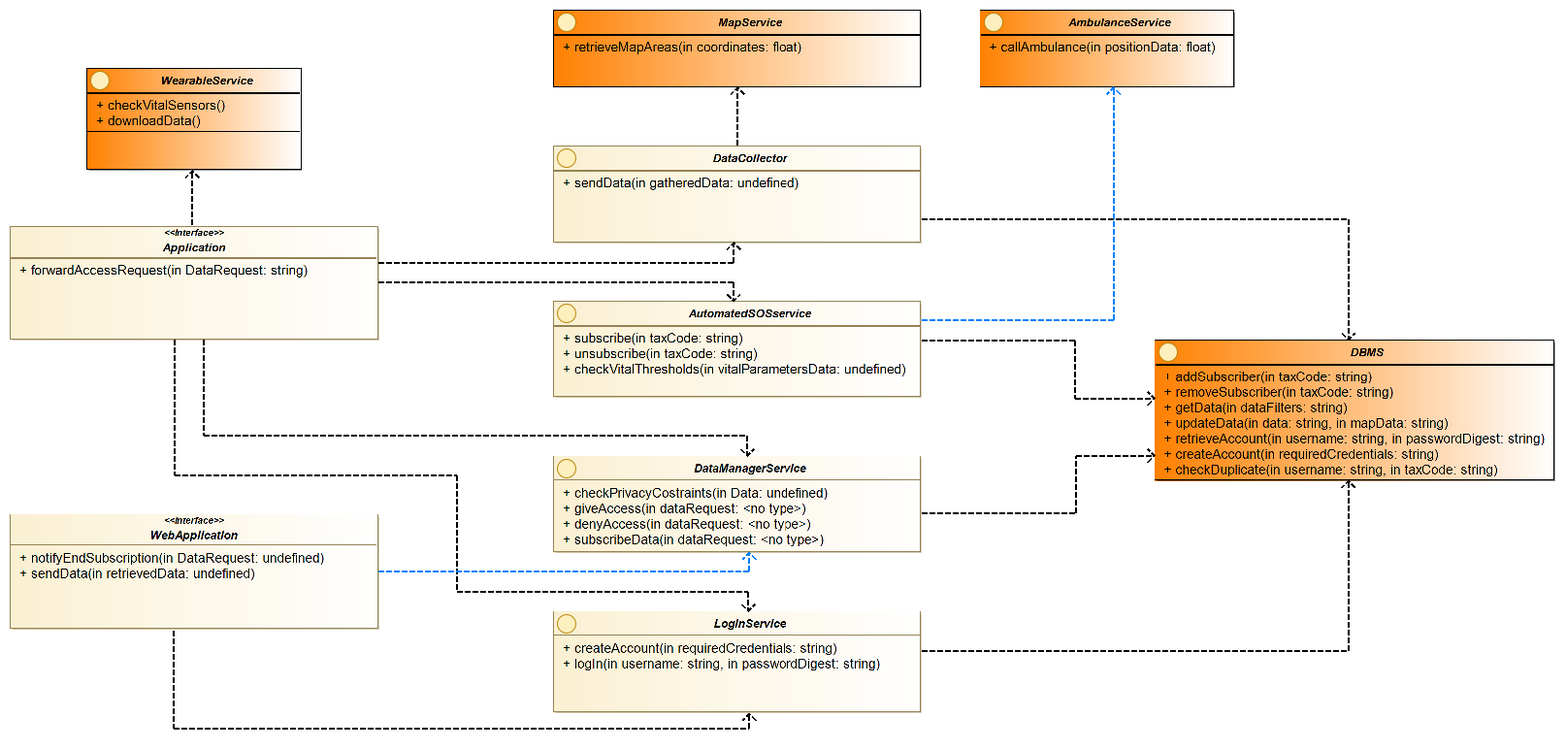
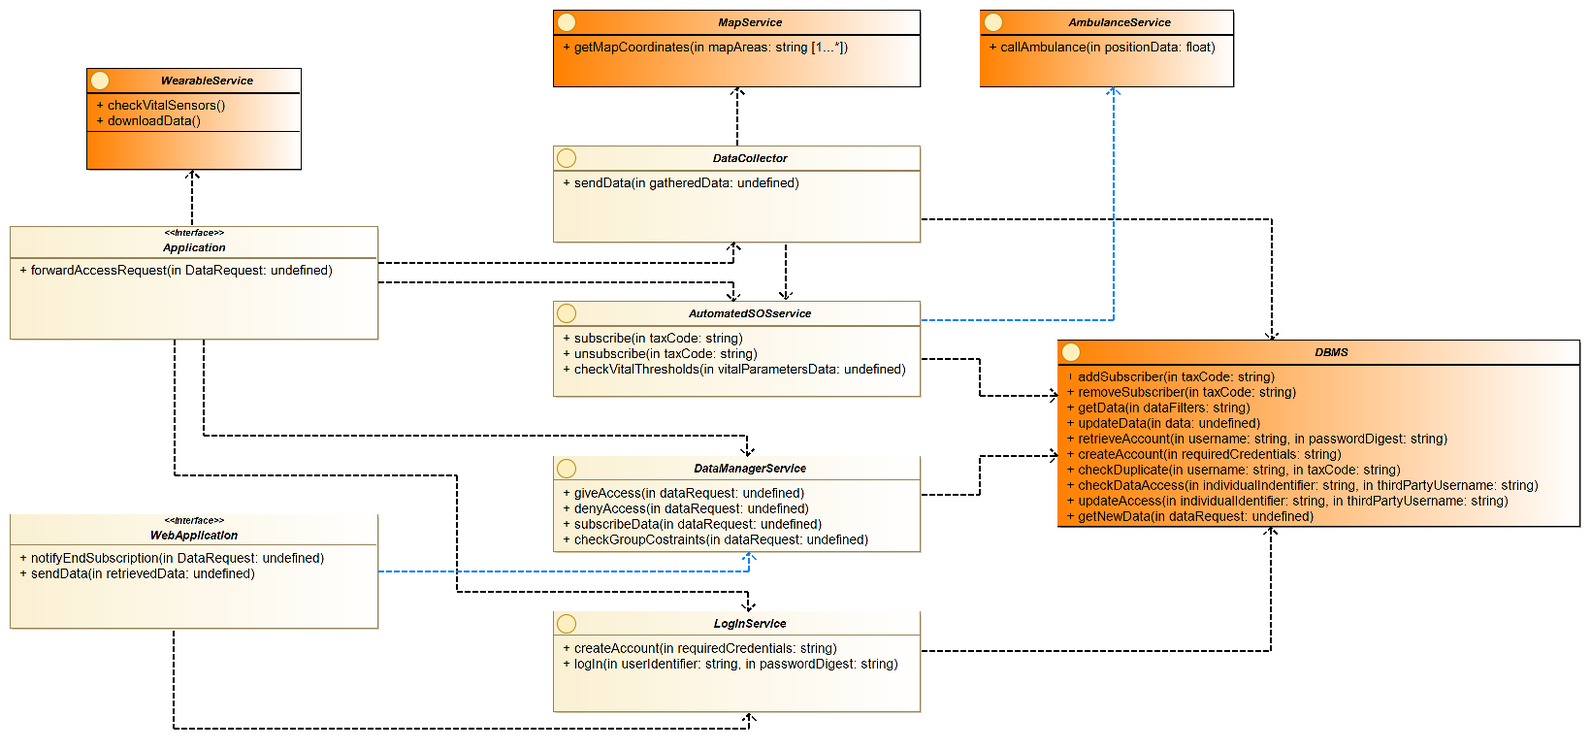
section 4 + updates on section 2 and 5
finished the description of the component interfaces and sequence diagrams. Improved the integration and testing plan. Changes in the sequence diagrams of the data subscription that is now being handled in different ways depending on the type of the request, and the data upload/individual data request: now the DB stores the coordinates instead of the map names

diff --git a/DD/ArchDesign.tex b/DD/ArchDesign.tex
@@ -23,7 +23,7 @@ The GUIs are deployed in this layer.
 \item \textbf{Data layer}: this layer is responsible for managing all the data of the system. 
 In particular, it stores the data on persistent devices and makes them available when requested by the TrackMe servers.
 \end{itemize}
-The structure displayed in Figure \ref{f:3tier} is not to be understood as a rigid constraint on the implementation choices, but it represents where most of the three three logic layers are deployed.
+The structure displayed in Figure \ref{f:3tier} is not to be understood as a rigid costraint on the implementation choices, but it represents where most of the three three logic layers are deployed.
 For examples, it is possible that part of the data is (temporarily) stored on the clients in order to reduce latency or that some presentation logic is deployed on the TrackMe Server in order to achieve a more dynamic GUI.
 
 
@@ -86,7 +86,7 @@ This is the only node that interact with the Database node.
 
 \section{Component Interfaces}
 The following diagram shows what features each component must provide to guarantee the correct functioning of Data4Help features, highliting the dependencies among the various components.
-To make the diagram more clear, the crossing arrows have different colours and the interfaces used from external components are highlated in orange.
+To make the diagram more clear, the crossing arrows have different colours and the external components are highlited in orange.
 Following the diagram, each operation is defined through a brief description.
 
 \begin{figure}[H]
@@ -97,61 +97,80 @@ Following the diagram, each operation is defined through a brief description.
 
 
 \begin{itemize}
-\item Application
+\item Android App
 \begin{itemize}
 \item \textbf{forwardAccessRequest}: forwards the third party data access request to the individual's application. The data request is taken as an input parameter because it is needed to retrieve all the information about the request: who is the requester, in which data he is interested in.
 \end{itemize}
 \item Wearable Service
 \begin{itemize}
-\item \textbf{downloadData}: downloads to the application the data stored in the wearable.
+\item \textbf{downloadData}: downloads the data stored in the paired wearable.
 \item \textbf{checkVitalSensors}: checks if the wearable is capable of measuring at least one vital parameter, either the blood pressure or the heart rate.
 \end{itemize}
-\item WebApplication
+\item Web App
 \begin{itemize}
-\item \textbf{notifyEndSubscription}: notifies the third party about an ended data subscription in an asynchronous way. The data request is taken as an input in order to 
-\item \textbf{sendData}: sends the given data to the webApplication.
+\item \textbf{notifyEndSubscription}: sends a notification to the Web App about the ended subscription of the data request passed as an input paramter.
+\item \textbf{sendData}: sends the given data to the Web App.
 \end{itemize}
-\item DataCollector
+\item Data Collector
 \begin{itemize}
-\item \textbf{sendData}: sends the gathered data from the app to the data collector.
+\item \textbf{sendData}: sends the gathered data from the Android App to the Data Collector.
 \end{itemize}
-\item MapService
+\item Map Service
 \begin{itemize}
-\item \textbf{retrieveMapAreas}: search the city name bound to the coordinates received.
+\item \textbf{getMapCoordinates}: searches the coordinates of the border associated to the given map zone. These coordinates will be then used by the DBMS in order to apply filters to the stored data based on geographical zones.
 \end{itemize}
-\item DataManagerService
+\item Data Manager
 \begin{itemize}
-\item \textbf{checkPrivacyCostraints}: scan the input data and checks if the number of i
+\item \textbf{checkGroupCostraints}: operation used to check if the group data found by the database applying the data request filters specified by the third party is above 1000.
 \item \textbf{giveAccess}: allows the individual data gathering from the given third party request to be processed.
 \item \textbf{denyAccess}: denies the individual data gathering from the given third party request to be processed.
-\item \textbf{subscribeData}: activates the data subscription of the given data request.
+\item \textbf{subscribeData}: activates the data subscription for the given data request.
 \end{itemize}
-\item LoginService
+\item Login Manager
 \begin{itemize}
 \item \textbf{createAccount}: uses the given credentials to create a Data4Help account.
-\item \textbf{logIn}: allows users to access to Data4Help through their username (or tax code) and password.
+\item \textbf{logIn}: allows users to access to Data4Help through their username (or tax code in case it is an individual) and password digest.
 \end{itemize}
-\item AutomatedSOS
+\item Automated SOS
 \begin{itemize}
 \item \textbf{subscribe}: activates the AutomatedSOS service for the individual associated to the given tax code.
 \item \textbf{unsubscribe}: stops the AutomatedSOS for the individual associated to the given tax code.
 \item \textbf{checkVitalThresholds}: checks if the data of the vital paramaters have crossed the critical thresholds
 \end{itemize}
-\item AmbulanceService
+\item Ambulance Service
 \begin{itemize}
 \item \textbf{callAmbulance}: calls an ambulance, using the input coordinates to specify the destination.
 \end{itemize}
 \item DBMS
 \begin{itemize}
-\item \textbf{addSubscriber}: adds in the database the individual associated to the tax code as an AutomatedSOS subscriber
-\item \textbf{removeSubscriber}: remove the AutomatedSOS subscriber associated to the tax code from the database.
-\item \textbf{getData}: use the given data filters to build the respective query for the database, in order to access the desired data.
-\item \textbf{uploadData}: adds the given data and the associated geographical position to the database.
+\item \textbf{addSubscriber}: promotes the individual account associated to the given tax code as an AutomatedSOS account.
+\item \textbf{removeSubscriber}: removes the AutomatedSOS subscription from the account bound to the tax code.
+\item \textbf{getData}: uses the given data filters to build the respective query for the database, in order to access the desired data.
+\item \textbf{uploadData}: adds the given data to the database.
 \item \textbf{retrieveAccount}: checks if the given credentials are in the database.
 \item \textbf{createAccount}: adds a new user account to the database using the given credentials.
 \item \textbf{checkDuplicate}: checks if the given username or tax code are already inserted in the database.
+\item \textbf{updateAccess}: updates the list of all third parties that can have access to the individual data.
+\item \textbf{checkAccess}: checks if the given third party, identified by his username, can have access to the given individual data. The individual can be identified either by the tax code or by the username.
+\item \textbf{getNewData}: collects all the new data related to a data request.
 \end{itemize}
 \end{itemize}
+Note that the operations associated to the external services are fictitious, the real names or input parameters may vary from the one listed above, but the expected functionalities must be the same, even if they are mapped on more than one real function.\\
+
+In this document the model of the application will not be provided: this makes the development phase more flexible.\\
+However, to better coordinate the interactions between the component, a general description of the input provided in each operation listed before is here presented:
+\begin{itemize}
+\item requiredCredentials: this will be a data structure containing multiple strings such as the taxCode, the username or the passwordDigest.
+\item userIdentifier: this is a generic string that could be either the individual username or tax code, or the third party username.
+\item individualIdentifier: this generic string that could be either the individual username or tax code.
+\item dataRequest: this will be the data structure that represents the data request from the third parties. It will contain all the filters applied for the data request, an Id a typology identifier for the request itself and the sender username.
+\item mapAreas: list of strings representing the geographical filter applied by the third party.
+\item dataFilters: this data structure contains all the filters that can be extrapolated from the dataRequest.
+\item retrievedData: data structure containing all the data retrieved from the DB.
+\item gatheredData: data structure containing all the data downloaded from the individual's smartwatch.
+\item vitalParameterData: data structure containing all the individual data that is needed for the AutomatedSOS service.
+\end{itemize}
+
 
 
 
@@ -164,9 +183,9 @@ The following diagrams shows the interactions between the interface components d
 \end{figure}
 This diagram shows the procedure activated when the user registers to Data4Help.\\
 The precondition of the registration is that the user has filled all the mandatory fields of the Sign Up form.\\
-When the user presses the register button, the content of the compiled fields is sent to the LoginService component of the server to create an account.\\
+When the user presses the register button, the content of the compiled fields is sent to the Login Manager component to create an account.\\
 Before creating the account, the LoginService checks through the DBMS services if the provided username and tax code are already present in the database.\\
-If the provided username or tax code is already taken, the procedure terminates sending an error notification to the client, otherwise the LoginService adds the new account credentials in the database through the DBMS.\\
+If the provided username or tax code is already taken, the procedure terminates sending an error notification to the client, otherwise the Login Manager adds the new account credentials in the database through the DBMS.\\
 After the account is created a notification is sent to the user and the procedure ends.
 
 
@@ -176,8 +195,8 @@ After the account is created a notification is sent to the user and the procedur
 \includegraphics[width=\linewidth]{resources/uml/sequence/LogIn.png}
 \end{figure}
 In this diagram it's presented the Log In procedure.\\
-Once the user has pressed the Log In button, the username and the password digest are sent to the LoginService component.\\
-This component chcecks through the DBMS if there exist an account matching the credentials provided: in the positive case the user is logged in and directed to the respective data visualization screen, otherwise an error notification is sent to the user.\\
+Once the user has pressed the Log In button, the username and the password digest are sent to the Login Manager.\\
+This component checks through the DBMS if there exists an account matching the credentials provided: in the positive case the user is logged in and directed to the respective data visualization screen, otherwise an error notification is sent to the user.\\
 Notice that, in order to mantain user privacy the password is crypted immediately with an hash function, and only its digest is used during this procedure.
 
 
@@ -190,10 +209,9 @@ This diagram shows the data upload procedure, including the wearable pairing pha
 Obviously the individual must be logged in, in order to start the data upload.\\
 When the individual goes to the data visualization screen the wearable pairing, using the external wearable service, starts.\\
 If the wearable is not found the procedure terminates sending an error notification to the application.
-In the other case, once the wearable is paired, the application downloads the data gathered from the smartphone through the wearable external services.\\
-The downloaded data is then sent to the DataCollector component that is in charge of transforming the position coordinates bound to the data in city or district names, using the external map service interface.\\
-This part of the procedure is needed in order to directly store in the database the city names instead of the coordinates, in order to obtain a faster response when handling data request with geographical area filters, that are indeed city names or countries.
-Once the geographical area is retrieved, the data collectors add it to the database through the DBMS, and updates the user screen visualized data.
+In the other case, once the wearable is paired, the application downloads the data gathered from the smartphone through the wearable services.\\
+The downloaded data is then sent to the server through the Data Collector, that uploads the data into the database through the DBMS.\\
+Once the data is uploaded, a notification is sent to the Android App which now displays the new data.
 
 \subsection{AutomatedSOS subscription}
 \begin{figure}[H]
@@ -201,13 +219,13 @@ Once the geographical area is retrieved, the data collectors add it to the datab
 \includegraphics[width=\linewidth]{resources/uml/sequence/AutomatedSOS.png}
 \end{figure}
 This diagram illustrates the AutomatedSOS subscription procedure that is activated once the individual has paired the wearable and the subscribe button is tapped.\\
-After the subscribe button is tapped, the application check through the wearable external interface if the wearable is capable of measuring either the blood pressure or the heart rate.\\
+After the subscribe button is tapped, the application checks through the wearable external interface if the wearable is capable of measuring either the blood pressure or the heart rate.\\
 In the negative case the procedure ends sending a notification to the individual.
-In the other case, the application starts the subscription by using the AutomatedSOS component, that updates the database, setting the individual as an AutomatedSOS subscriber. Once the individual is set as a subscriber a notification is sent to the application, notifying the start of the service.\\
+In the other case, the application starts the subscription by using the Automated SOS component, that updates the database, setting the individual as an AutomatedSOS subscriber. Once the individual is set as a subscriber a notification is sent to the application, notifying the start of the service.\\
 After the service is started, the application regurarly downloads the vital parameter data using the wearable external service, enriches it with the individual position data and sends it to the data collector.\\
-The data collector checks if the values of vital data collected have crossed the critical threshold using the AutomatedSOS component: if the critical threshold of a vital parameter is crossed this component calls an ambulance using the external Ambulance APIs, giving the coordinates to set the destination of the ambulance.\\
+The data collector checks if the values of vital data collected have crossed the critical threshold using the Automated SOS component: if the critical threshold of a vital parameter is crossed this component calls an ambulance using the external Ambulance APIs, giving the coordinates to set the destination of the ambulance.\\
 Once the ambulance is called a notification is sent to the user application.\\
-The AutomatedSOS service is active as long as the wearable is paired: when the wearable unpairs the application starts the unsubscribe operation of the AutomatedSOS, which updates the database by removing the subscribption, and notify the user about the ended subscription.
+The AutomatedSOS service is active as long as the wearable is paired: when the wearable unpairs the application starts the unsubscribe operation of the Automated SOS, which updates the database by removing the subscribption, and notify the user about the ended subscription.
 
 
 
@@ -217,9 +235,10 @@ The AutomatedSOS service is active as long as the wearable is paired: when the w
 \includegraphics[width=\linewidth]{resources/uml/sequence/RequestGroupData.png}
 \end{figure}
 This diagram shows the interactions needed when a group data request from a third party occurs.\\
-When a third party has filled the group data request form and clicks on the send button, the web application sends the request to the DataManagement component.\\
-This component retrieves the filters from the data request and uses the DBMS to retrieve the requested data.\\
-Once the requested data is received, it checks if the privacy constraint is respected, by counting the number of tuples retrieved by the database: if the it is smaller or equal to 1000 the request is denied and an error notification is sent to the third party, otherwise the data is sent to the third party web application.
+When a third party has filled the group data request form and clicks on the send button, the Web App sends the request to the Data Manager component.\\
+This component retrieves the filters from the data request: if a geographical filter is applied, it uses the external map services to transform the given geographical filter in the corresponding border coordinates on the map.
+Once the filters are retrieved it then uses the DMBS to gather the requested data.
+Once the requested data is received, it checks if the privacy costraint is respected, by counting the number of individuals that are part of the selected data group: if it is above 1000 the data is forwarded to the WebApp, otherwise the request is denied and a notification is sent to the Web App.
 
 \subsection{Individual Data request}
 \begin{figure}[H]
@@ -227,32 +246,45 @@ Once the requested data is received, it checks if the privacy constraint is resp
 \includegraphics[width=\linewidth]{resources/uml/sequence/RequestIndividualData.png}
 \end{figure}
 In this diagram the individual data request is presented.\\
-Similarly to what is done with the group data request, once the individual data request form is filled and the send button is clicked, the web application sends the request to the DataManagement component.\\
-The first thing done by the DataManagement component is to retrieve the data requested in the database: if no data is present a notification error is sent to the web application.\\
-In the other case, the DataManagement forwards the access requests to the individual application.
-The individual can choose to give the direct access of his data to the third party or deny it through the application: if the access request is refused the application notifies the DataManagement of the decision, which sends a notification to the third party.
-If the individual allows the data access, the DataManagement sends the individual's data, retrieved initially, to the web application.
+Similarly to what is done with the group data request, once the individual data request form is filled and the send button is clicked, the web application sends the request to the Data Manager component.\\
+The first thing done by the Data manager is to retrieve the data requested in the database: if no data is present a notification error is sent to the web application.\\
+In the other case, the Data Manager forwards the access requests to the individual application.
+The individual can choose to give the direct access of his data to the third party or deny it through the Android App: if the access request is refused the Android App notifies the Data Manager about the decision, which sends a notification to the third party.
+If the individual allows the data access, the Data Manager sends the individual's data, retrieved initially, to the Web App.
 
 
-\subsection{Data subscription}
+\subsection{Group Data subscription}
 \begin{figure}[H]
 \centering
-\includegraphics[width=\linewidth]{resources/uml/sequence/DataSubscription.png}
+\includegraphics[width=\linewidth]{resources/uml/sequence/GroupDataSubscription.png}
 \end{figure}
 The above diagram shows the data subscription procedure that is activated when a third party decides to subscribe to a data request.\\
-The web application starts the subscription through the DataManagement component. Once the subscription is activated the DataManager regurarly checks if there is new data matching the data request to which the third party is subscribed to using the DBMS services.\\
-If new data is found, the DataManager checks if the privacy constraints are still active (both if the request is a group data request or an individual data request).\\
-If the constraints are respected the new data is sent to the web application, otherwise the subscription is ended and the third party is notified about it.
+The Web App starts the subscription through the Data Manager component. Once the subscription is activated the Data Manager regurarly checks if there is new data matching the data request to which the third party is subscribed to using the DBMS services.\\
+If new data is found, the Data Manager checks if the privacy costraints are still active (both if the request is a group data request or an individual data request).\\
+If the costraints are respected the new data is sent to the web application, otherwise the subscription is ended and the third party is notified about it.
+
+
+\subsection{Individual Data subscription}
+\begin{figure}[H]
+\centering
+\includegraphics[width=\linewidth]{resources/uml/sequence/IndividualDataSubscription.png}
+\end{figure}
+The individual data subscription procedure is very similar to the group one.\\
+The only difference is that the regular check of the privacy costraint is done before retrieving the data, through the DBMS because it is the component that has the list of all the third parties that have access to the individual data.\\ 
 
 
 \section{Selected architectural styles and patterns}
 \subsection{Overall Architecture}
 Data4Help is based on a three tier architecture: almost all the system logic is executed in the server component, with the help of some external services.
-The client applications mainly focus on presenting the information delivered by the server, however some functionalities may be delegated to it, like for example the wearable pairing, which is handled by the individual application in order to give a faster response.
+The client applications mainly focus on presenting the information delivered by the server, however some functionalities may be delegated to it, for example the wearable pairing, which is handled by the individual application in order to give a faster response.
 The data layer is handled by a single, well organized, database. This choice was made to avoid data fragmentation among different databases.
 \\
 
 Moreover, the three tier architecture allows to make changes to any of the three layer without causing to much trouble to the other components: this is a fundamental aspect for system like Data4Help that aims to expand its functionalities.
+\\
+
+As stated in the RASD the availability is expected to be at 95% of the annual time. Indeed there are no backup options in the system, all the component are in series with the server being the bottleneck due expected maintenance.\\
+Obviously this value has to be improved over time by acquiring a server to be put in parallel to the old one.
 
 
 \subsection{Design Patterns}
@@ -263,7 +295,8 @@ view part is obviously handled by the client applications, while the controller 
 The use of other design patterns, more related to the implementation, are left to the developers. 
 
 \subsection{Other design decisions}
-Data4Help strongly relies on external services:
+The main philosophy about the design process to Data4Help is to keep the system as simple as possible, since it offers few but well defined functionalities. This is useful to have a fast system, that can be developed quickly.\\
+Furthermore, Data4Help strongly relies on external services:
 \begin{itemize}
 \item The Wearable external service is used to handle the pairing and the data download from the individual smartwatch. Initially the application will be build using Google wearOS APIs, but more smartwatches will be made compatible in the future.
 \item The Map external service is used to translate the coordinates into geographical area names. Many options are available, and will be all considered in the development phase.

diff --git a/DD/ImplIntTest.tex b/DD/ImplIntTest.tex
@@ -3,26 +3,29 @@
 The implementation of Data4Help will be done component by component, developing the most critical components first.
 The implementation order will be the following:
 \begin{enumerate}
-\item Data Manager: this is the most important component of the system, since it is the one that handles the data requests from third parties and translate this requests in queries for the DBMS. 
-This is also the component that creates a direct communication between the third party web application and the individual application, when the third party sends an individual data request
-\item Data Collector: this component is the one that uploads the received data to the database. The Data Collector is also critical, all the individual's data will pass through it while using Data4Help. Furthermore, it is the one that has to interacts with the map external service.
+\item Data Manager: this is the most important component of the system, since it is the one that handles the data requests from third parties and translates this requests in queries for the DBMS. 
+This is also the component that creates a direct communication between the third parties Web App and the Android App, when third parties send an individual data request.\\
+Furthermore, this component is the one that interacts with the Map Service, in order to retrieve the border coordinates associated to the optional geographical filter.
+\item Data Collector: this component is the one that uploads the received data to the database. The Data Collector is also critical, all the individual's data will pass through it while using Data4Help. 
+When the individual is subscribed to Automated SOS, this component interacts with the AutomatedSOS component to check the thresholds and, in case of necessity, call the ambulance.
 \item Automated SOS: this component is the one that handles all the functionalities linked to the AutomatedSOS service such as the subscription, the vital parameters threshold check and the ambulance call. Of course, to call the ambulance, it has to interact with the ambulance external service.
-\item Login Service: this will be the last server side component to be implemented since it is not related to Data4Help main functionalities.
-\item Application: once the server side is ready, the application can be developed. The application will be developed before than the third parties web application because it has some critical aspects like the wearable pairing and the AutomatedSOS subscriptio.
-\item Web Application: this will be the last component to be implemented.
+\item Login Manager: this will be the last server side component to be implemented since it is not related to Data4Help main functionalities.
+\item Android App: once the server side is ready, the Android App can be developed. The Android app will be developed before than the Web App because it has some critical aspects like the wearable pairing and the AutomatedSOS subscriptio.
+\item Web App: this will be the last component to be implemented, and will be the one that will let the third parties formulate their data requests.
 \end{enumerate}
 
 \section{Integration and testing} 
 \subsection{Entry criteria}
-The integration and testing plan will follow the implementation plan using a bottom up approach: each component will be fully tested as soon as it is finished and will be integrated with other related components, creating a subcomponent of the whole system that will be again tested to make sure everything works fine.
+The integration and testing plan will follow the implementation plan using a bottom up approach: each component will be fully tested as soon as it is finished and will be integrated with other related components, creating a subcomponent of the whole system that will be again tested to make sure everything works fine.\\
 More precisely:
 \begin{itemize}
 \item Data Manager: this component will be tested by simulating third parties data requests.
-\item Data Collector: this component will be tested by simulating individual's data upload. Once the Data Collector is proved to be fully working, it is integrated with the Data Manager, and a new testing phase that checks if the data uploaded through the Data Collector to the DBMS can be used by the Data Manager to satisfy third parties requests.
-\item AutomatedSOS: this component will be tested by checking if the ambulance is called by analyzing simulated vital data. Once it is tested, it will be integrated with the Data Collector, and the interaction between the two components will be tested to see if the data delivered to the Data Collector is correctly analyzed by AutomatedSOS.
-\item Login Service: this component will be tested with simulated data, and will be integrated with the Data Manager service to see if a simulated third party individual request can refer to an individual account added through the Login Service.
+\item Data Collector: this component will be tested by simulating individual's data upload.
+\item AutomatedSOS: this component will be tested by checking if the ambulance is called by analyzing simulated vital data. After it is tested, it will be integrated with the Data Collector, and the interaction between the two components will be tested to see if the data delivered to the Data Collector is correctly analyzed by AutomatedSOS.
+\item Login Service: this component will be tested with simulated account creations.
 \end{itemize}
-
+All the components above development will include the integration with the needed external services, since they strongly rely on them to guarantee their respective services.\\
+Once the server side is ready, the applications will be developed, integrated with the server and then tested to see if they can correctly use the server functionalities.
 
 
 \subsection{Components to be integrated}

diff --git a/DD/GraphicInterface.tex b/DD/GraphicInterface.tex
@@ -1,0 +1,4 @@
+\chapter{User Interface Design}
+The general guideline to develop the user interface for the client applications is too keep the interface as simple as possible while providing all the needed functionalities.\\
+The style used to build the user interface will be based on the Material Design by Google.
+To have a better idea of how the user interface will look like when the applications will be finished please refer to the section 3.1.1 of the RASD.

diff --git a/DD/DD.tex b/DD/DD.tex
@@ -61,7 +61,7 @@ Stefano Pecchia \hspace{5em} Edoardo Peretti \vspace{4cm}
 \end{titlepage}
 
 
-
+\
 \begin{table}[h!]
 \centering
 \begin{tabular}{rl}
@@ -87,6 +87,6 @@ Stefano Pecchia \hspace{5em} Edoardo Peretti \vspace{4cm}
 \include{archdesign}
 \include{reqtrace}
 \include{implinttest}
-
+\include{graphicinterface}
 \end{document}
 
